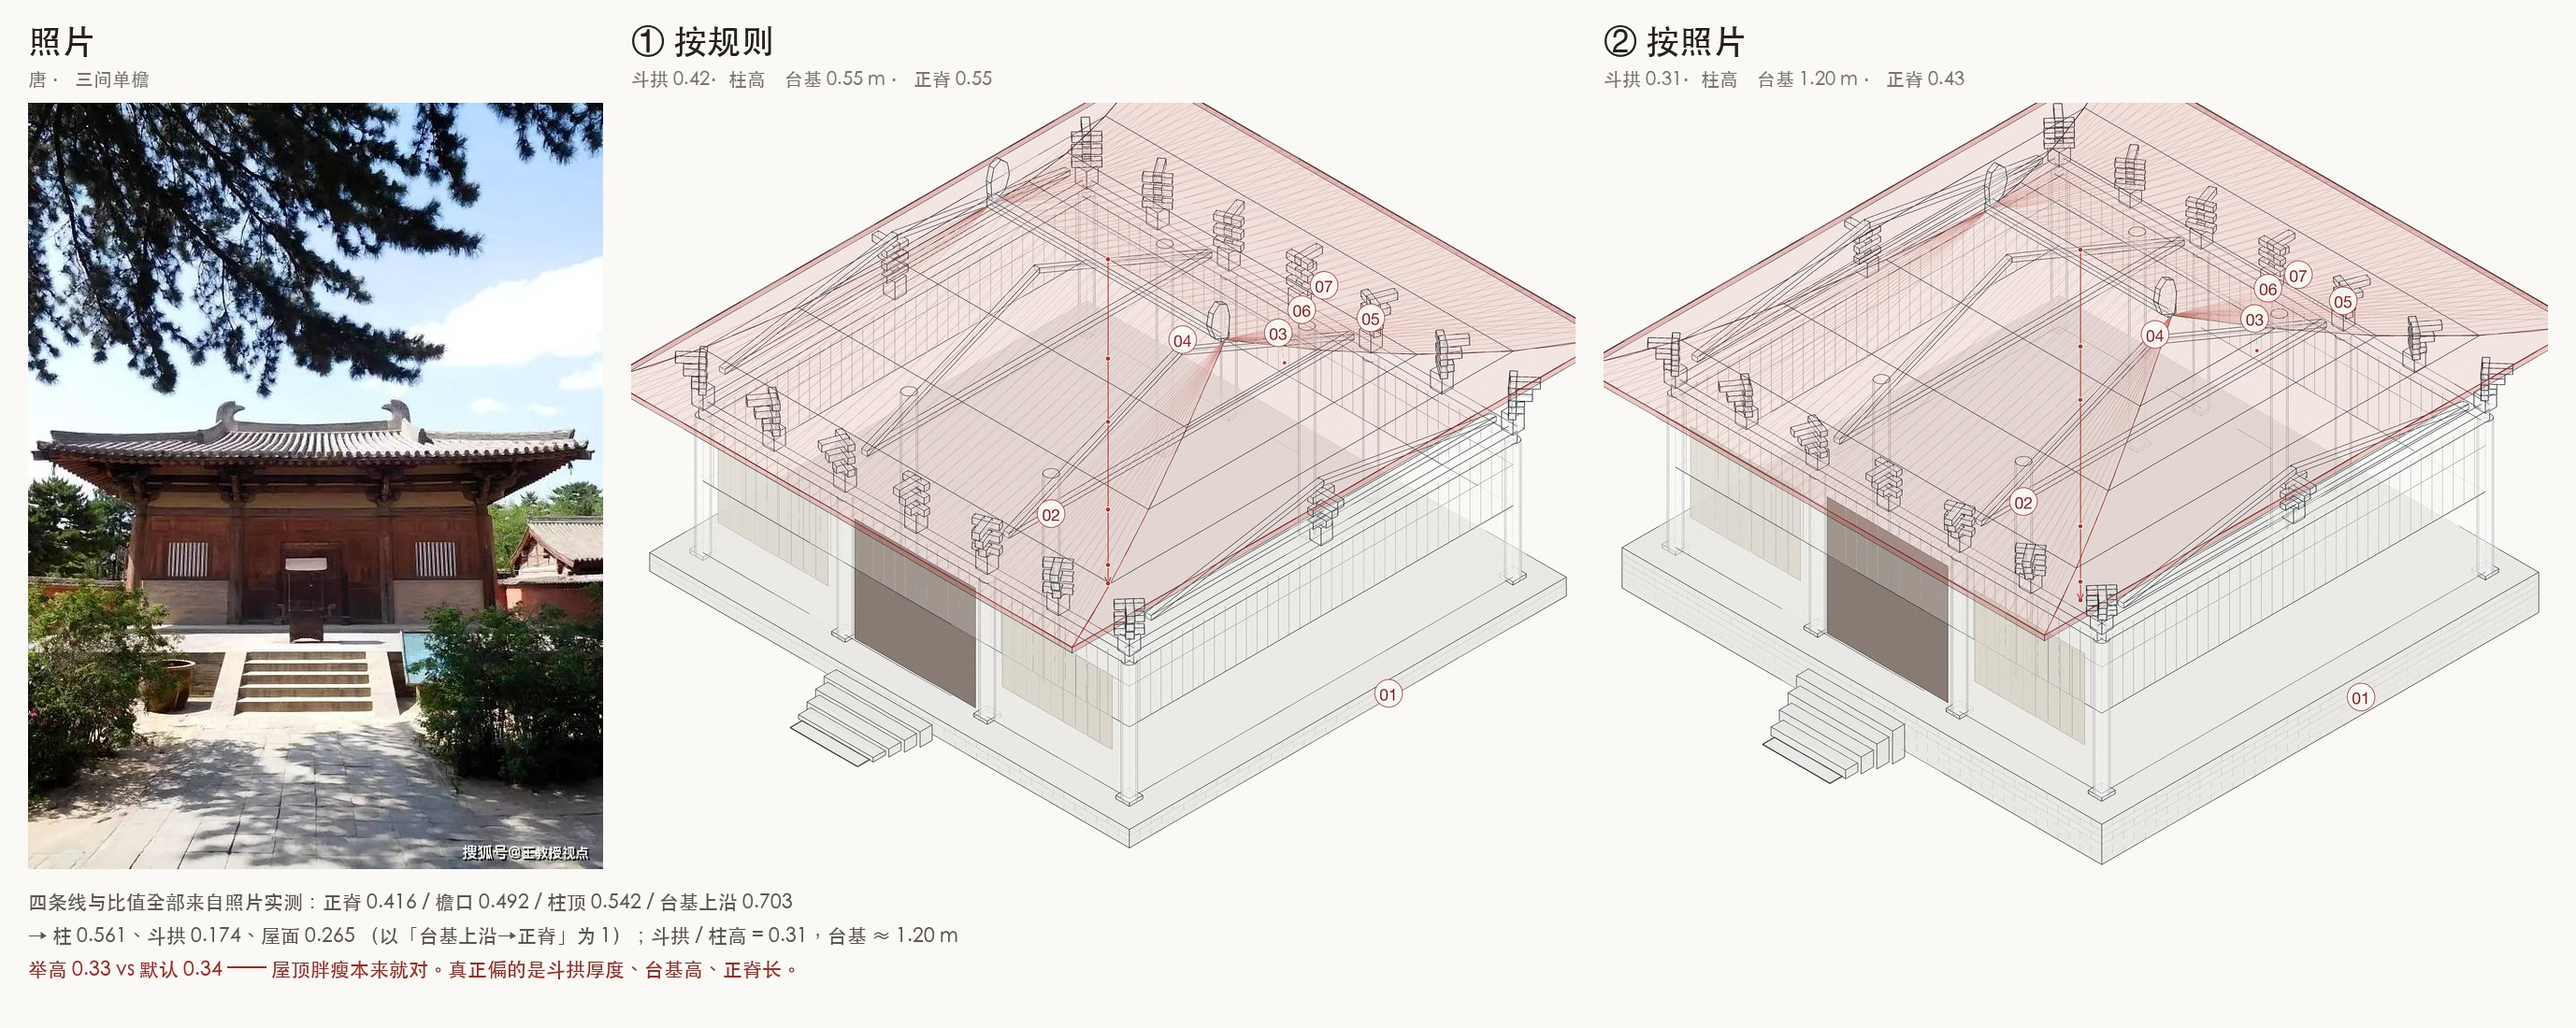
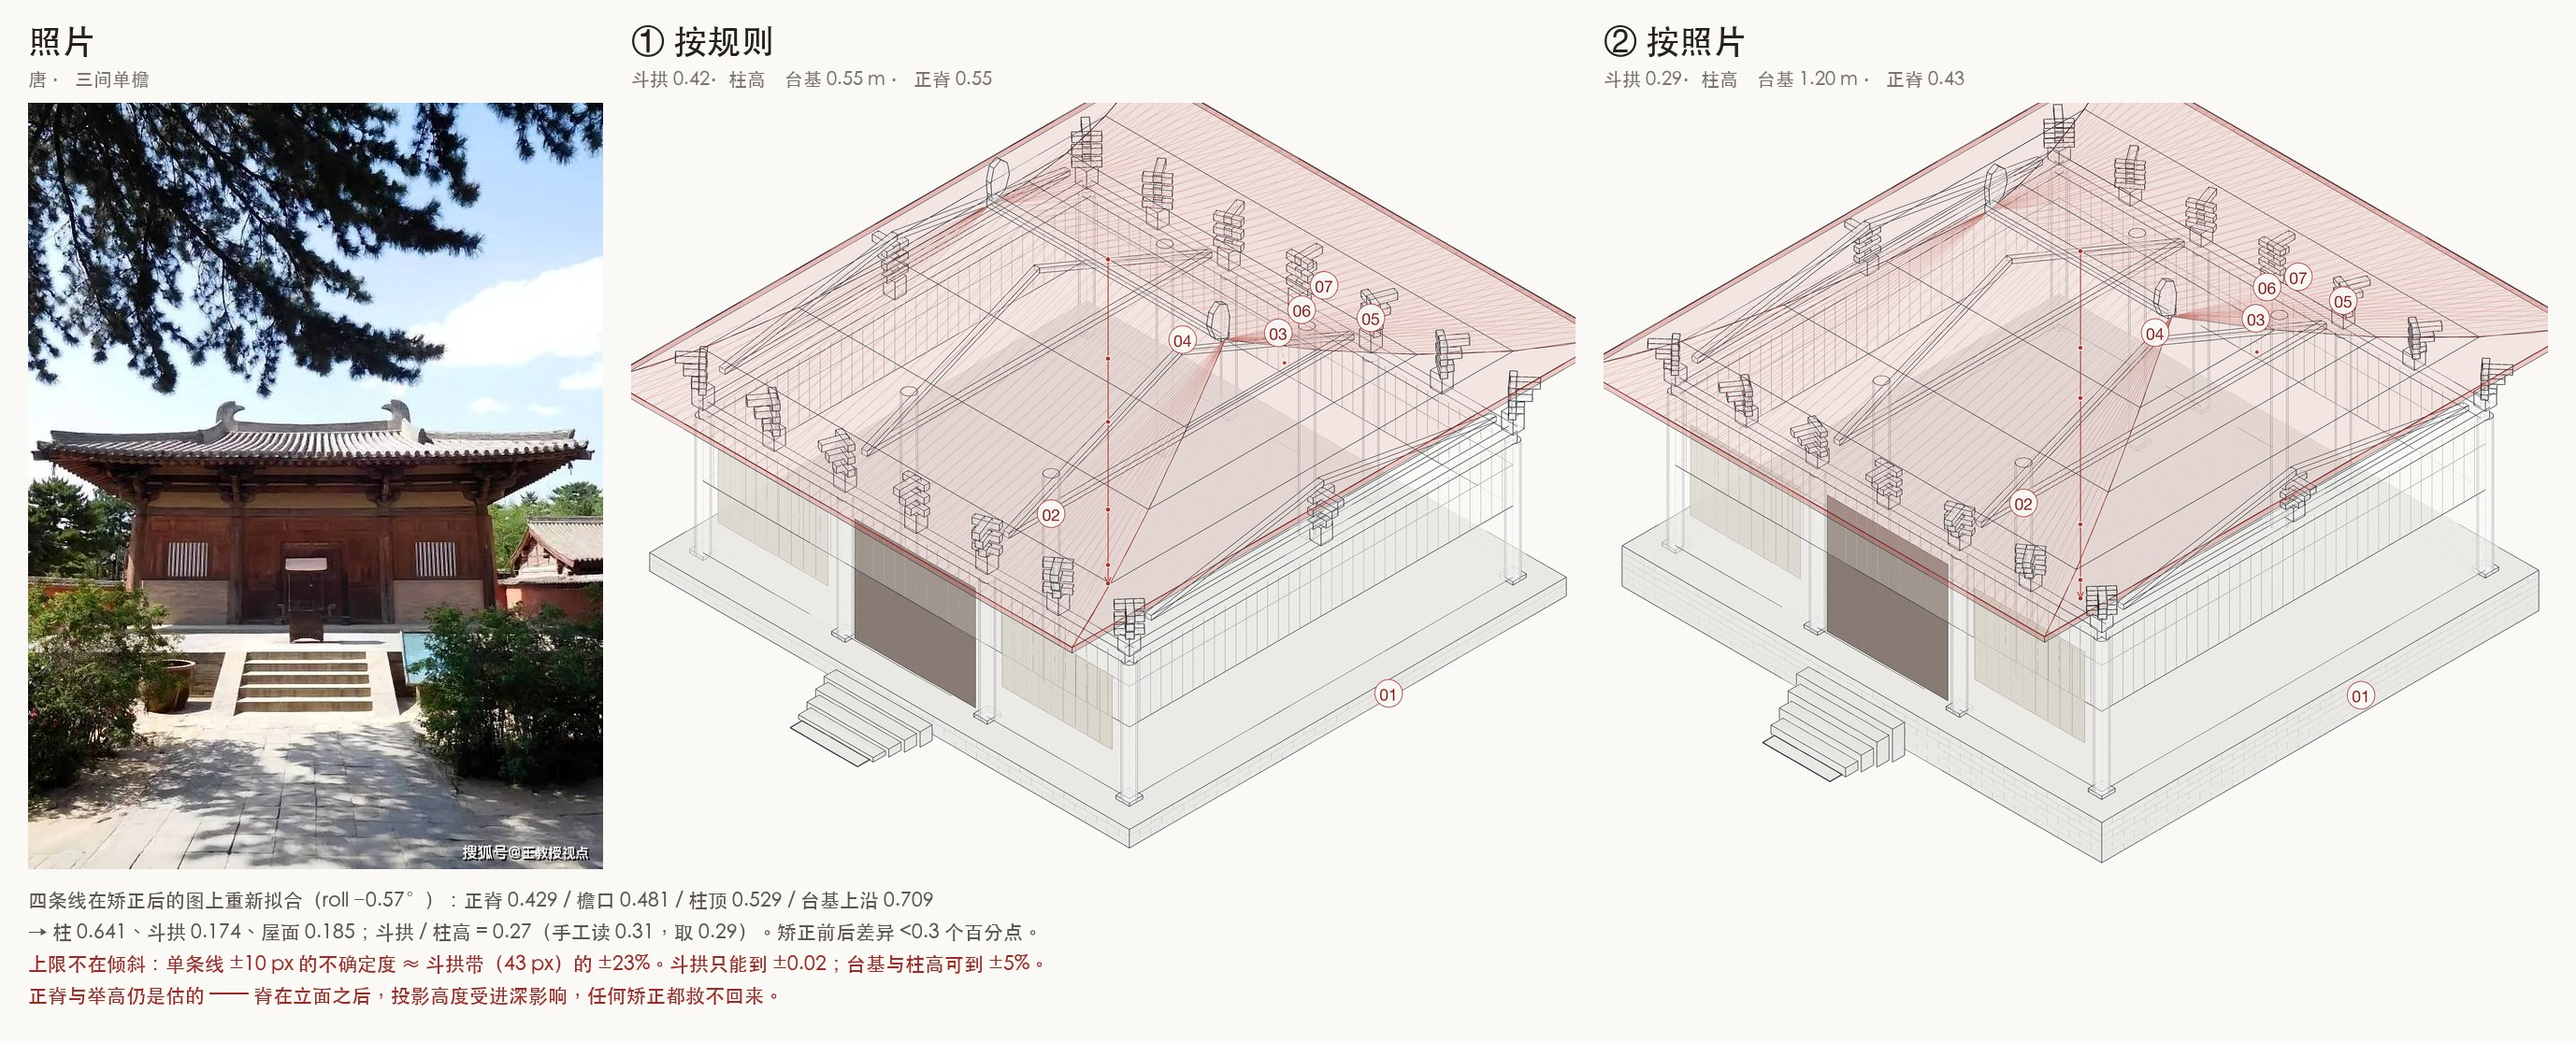
feat(photo): 加 roll/quad 矫正；量比值的误差上限写进文档
- analyze_photo.py: --rectify roll|quad，报告记 rectified{mode,angle_deg,lines_deg}
- 在矫正后的图上重新拟合四条线：柱 0.641 / 斗拱 0.174 / 屋面 0.185
- 矫正前后差 <0.3 个百分点——误差上限在'选哪条边'（±10px），不在倾斜
- 斗拱取 0.29（手工 0.31 与自动 0.27 的中点），标注实测区间
- photo-to-json.md 补拍照要求与误差表；lessons 补第 24/25 条

diff --git a/march-aa-structure-view/scripts/analyze_photo.py b/march-aa-structure-view/scripts/analyze_photo.py
@@ -15,11 +15,14 @@ import numpy as np
 from PIL import Image
 
 
-def load_gray(path, maxw=900):
+def load_gray(path, maxw=900, ret_box=False):
     im = Image.open(path).convert('L')
     if im.width > maxw:
         im = im.resize((maxw, int(im.height * maxw / im.width)), Image.LANCZOS)
-    return np.asarray(im, dtype=np.float32) / 255.0
+    g = np.asarray(im, dtype=np.float32) / 255.0
+    if ret_box:
+        return g, {'x0': 0.0, 'x1': 1.0}
+    return g
 
 
 def edge_energy(g):
@@ -124,18 +127,109 @@ def symmetry(g, box):
     return float((a * b).sum() / denom)
 
 
+
+# —— 矫正（roll / 四点透视） ——————————————————————————————
+
+def _line_angle(g, box, y0, y1, thr=0.02):
+    """在 [y0,y1] 窗口里逐列找最强竖直梯度，拟合水平线倾角（度）。g 为 0..1 灰度。"""
+    g = np.abs(np.diff(g, axis=0))
+    H, W = g.shape
+    x0, x1 = int(box['x0'] * W), int(box['x1'] * W)
+    win = g[int(y0 * H):int(y1 * H), x0:x1]
+    ys = []
+    for c in range(win.shape[1]):
+        col = win[:, c]
+        if col.max() < thr:
+            continue
+        ys.append(int(y0 * H) + int(np.argmax(col)))
+    if len(ys) < 20:
+        return None, 0
+    xs = np.arange(x0, x0 + len(ys))
+    k, _ = np.polyfit(xs, ys, 1)
+    return math.degrees(math.atan(k)), len(ys)
+
+
+def estimate_roll(g, box):
+    """取台基与檐口两条线倾角的中位数；返回 (角度, [(窗口, 角度)])。"""
+    got = []
+    for y0, y1 in ((0.66, 0.75), (0.46, 0.53)):
+        a, n = _line_angle(g, box, y0, y1)
+        if a is not None:
+            got.append(round(a, 2))
+    if not got:
+        return 0.0, []
+    return float(np.median(got)), got
+
+
+def apply_roll(im, deg):
+    """旋转拉平：deg 为检测到的倾角（y 随 x 增大而减小为正角），旋转方向取反。"""
+    return im.rotate(deg, resample=Image.BICUBIC, expand=False, fillcolor=(255, 255, 255))
+
+
+def homography(src, dst):
+    """四点透视：解 8 个系数，供 PIL PERSPECTIVE 用。src/dst 为 4 个 (x,y)。"""
+    A, b = [], []
+    for (x, y), (u, v) in zip(src, dst):
+        A.append([x, y, 1, 0, 0, 0, -u * x, -u * y]); b.append(u)
+        A.append([0, 0, 0, x, y, 1, -v * x, -v * y]); b.append(v)
+    h = np.linalg.solve(np.array(A, float), np.array(b, float))
+    return tuple(h.tolist())
+
+
+def apply_quad(im, quad, out_w=None, out_h=None):
+    """quad = 4 个归一化点（TL,TR,BR,BL），把这块四边形拉成正矩形。
+
+    纵向比值用不到真实长宽比：目标矩形取任意比例，等价于再乘一个各向异性缩放，
+    竖直方向的**比例**不变。所以 out_w/out_h 只要形状合理即可。
+    """
+    W, H = im.size
+    src = [(quad[i] * (W if i % 2 == 0 else H)) for i in range(8)]
+    src = list(zip(src[0::2], src[1::2]))
+    w = out_w or int((((src[1][0]-src[0][0])**2 + (src[1][1]-src[0][1])**2) ** .5 +
+                      ((src[2][0]-src[3][0])**2 + (src[2][1]-src[3][1])**2) ** .5) / 2)
+    h = out_h or int((((src[3][0]-src[0][0])**2 + (src[3][1]-src[0][1])**2) ** .5 +
+                      ((src[2][0]-src[1][0])**2 + (src[2][1]-src[1][1])**2) ** .5) / 2)
+    dst = [(0, 0), (w, 0), (w, h), (0, h)]
+    coeffs = homography(src, dst)
+    return im.transform((w, h), Image.PERSPECTIVE, coeffs, Image.BICUBIC)
+
+
 def main():
     ap = argparse.ArgumentParser()
     ap.add_argument('--photo', required=True)
     ap.add_argument('--out', default=None)
     ap.add_argument('--family', default=None, help='已知家族就直接指定，脚本只量尺寸')
     ap.add_argument('--mark', default=None, help='把候选水平线画回照片，输出到这张图')
+    ap.add_argument('--rectify', default='roll', choices=['none', 'roll', 'quad'],
+                    help='取线前先矫正：roll=自动拉平（默认），quad=四点透视，none=不矫正')
+    ap.add_argument('--quad', default=None,
+                    help='--rectify quad 用的 4 个角（归一化，TL,TR,BR,BL），'
+                         '如 0.10,0.70,0.90,0.70,0.90,0.75,0.10,0.75')
     ap.add_argument('--lines', default=None,
                     help='人工确认的 4 条线：可给候选序号（如 10,9,7,6），'
                          '也可直接给归一化 y（带小数，如 0.703,0.542,0.492,0.416），'
                          '顺序均为 台基上沿,柱顶,檐口,正脊')
     a = ap.parse_args()
 
+    im_color = Image.open(a.photo).convert('RGB')
+    rect_info = {'mode': a.rectify}
+    if a.rectify != 'none':
+        g0, box0 = load_gray(a.photo, ret_box=True)
+        if a.rectify == 'roll':
+            ang, got = estimate_roll(g0, box0)
+            im_color = apply_roll(im_color, ang)
+            rect_info.update({'angle_deg': round(ang, 2), 'lines_deg': got})
+        else:
+            if not a.quad:
+                raise SystemExit('--rectify quad 需要 --quad（8 个归一化数）')
+            q = [float(t) for t in a.quad.split(',')]
+            if len(q) != 8:
+                raise SystemExit('--quad 需要 8 个数（TL,TR,BR,BL 的 x,y）')
+            im_color = apply_quad(im_color, q)
+            rect_info.update({'quad': q, 'size': list(im_color.size)})
+        tmp = '/tmp/_rectified.png'
+        im_color.save(tmp)
+        a.photo = tmp
     g = load_gray(a.photo)
     e = edge_energy(g)
     box = subject_box(e)
@@ -177,6 +271,7 @@ def main():
         'confidence': {},
         'evidence': [],
     }
+    report['measure']['rectified'] = rect_info
     report['measure']['bands'] = [{'i': i, 'y': y, 'strength': st}
                                   for i, (y, st) in enumerate(bands)]
 

diff --git a/march-aa-structure-view/references/photo-to-json.md b/march-aa-structure-view/references/photo-to-json.md
@@ -64,3 +64,42 @@ $PY scripts/structure_plate.py --json draft.json --out out/x.png
 - **把歇山看成庑殿**：歇山的两端山面上半是竖直的三角（山花），庑殿没有。
 - **把抱厦当主体**：主体取「最高、最完整的那一组」，抱厦只进说明文字。
 - **把近处的树/电杆算进主体**：主体框以外的东西一律不影响形制判断。
+
+## 拍照要求（直接决定量比值的可信度）
+
+正立面照片能标定的量有限，且对拍摄方式极其敏感。按下面的要求拍，误差能压到 5% 以内：
+
+1. **正对立面**，相机高度约在建筑半高处（不要在街面上仰拍）；
+2. **地平线水平**：取景框里让台基/地面线尽量水平，肉眼就能看出歪就别拍；
+3. **中长焦**（等效 50–85mm），离得远一点；广角会把两端拉斜；
+4. **建筑占满画面 60% 以上**，别让树和天空占主导——检测窗口会被带偏。
+
+做不到的话，先跑一次矫正：
+
+```bash
+# 自动拉平（默认，安全）：取台基与檐口两条线的拟合角中位数，旋转图片
+$PY scripts/analyze_photo.py --photo hall.jpg --rectify roll --mark /tmp/bands.png
+
+# 四点透视（更准，需人手给一个"真实矩形"的四个角，归一化坐标 TL,TR,BR,BL）
+$PY scripts/analyze_photo.py --photo hall.jpg \
+    --rectify quad --quad 0.115,0.542,0.885,0.542,0.885,0.703,0.115,0.703 \
+    --lines 0.703,0.542,0.492,0.416
+```
+
+报告里的 `measure.rectified` 会记下用了哪种矫正、检测到的角度、以及 `--quad` 的四个点，
+便于回溯"这张图是矫正过的"。
+
+### 误差上限（重要）
+
+单条水平线的读数不确定度约 **±10 px**（占 853 px 高的 1.2%）。换到构件上：
+
+| 量 | 相对误差 | 说明 |
+|---|---|---|
+| 台基高 / 柱高 | **±5%** | 线长、对比强，稳 |
+| 柱高 / 总高 | ±2% | 最稳的一个量 |
+| 斗拱层高 / 柱高 | **±20%** | 斗拱带只有 ~43 px，±10 px 就是 ±23% |
+| 正脊长 / 面阔 | ±15% 且**系统性偏** | 脊在立面之后，投影高度受进深影响，不属于立面平面 |
+| 举高（屋面坡度） | 只能估 | 正立面没有坡度信息 |
+
+结论：**台基与柱高可以量，斗拱只能给区间，正脊与举高必须标"估"。**
+报告里给数时请带区间（如「斗拱 0.27–0.31×柱高」），不要给一个看起来精确的单值。

diff --git a/march-aa-structure-view/references/lessons.md b/march-aa-structure-view/references/lessons.md
@@ -108,3 +108,20 @@
 给真实照片画图时，先跑 `analyze_photo.py --mark bands.png` 看候选线，人工确认四条线后
 `--lines 0.703,0.542,0.492,0.416` 得到 `bracket_over_col` 等比值，再写进 job。
 正立面照片量不出举高（坡度）与出檐（进深方向被压缩），这两项必须标"估"。
+
+## 24. 照片量比值：先矫正，再测线，最后才谈精度
+
+`analyze_photo.py` 支持 `--rectify roll|quad`（默认 roll）。但**矫正本身不会改变比值**——
+如果四条线还是人工从原图读的归一化 y，旋转只重采样像素，数字一个都不动。
+必须"矫正 → 在矫正后的图上重新测线 → 再算比值"，这条链才算走完。
+
+更要紧的是：**误差上限不在倾斜，而在"你选的是哪条边"**。同一条水平线，
+上沿/下沿/阴影边能差 ±10 px；对 43 px 高的斗拱带就是 ±23%。
+所以斗拱只给区间（如 0.27–0.31×柱高），台基与柱高可以给单值（±5%）。
+正脊永远测不准（在立面之后），必须标"估"。
+
+## 25. `--rectify` 的阈值是 0..1 灰度，不是 0..255
+
+`_line_angle()` 里 `col.max() < thr` 的 `thr` 默认 0.02——因为 `load_gray()` 返回
+`np.asarray(...)/255.0`。按 0..255 写 `thr=6` 会让所有列被跳过，`estimate_roll()` 恒返回 0，
+而且**不报错**，看起来像"照片本来就很正"。
